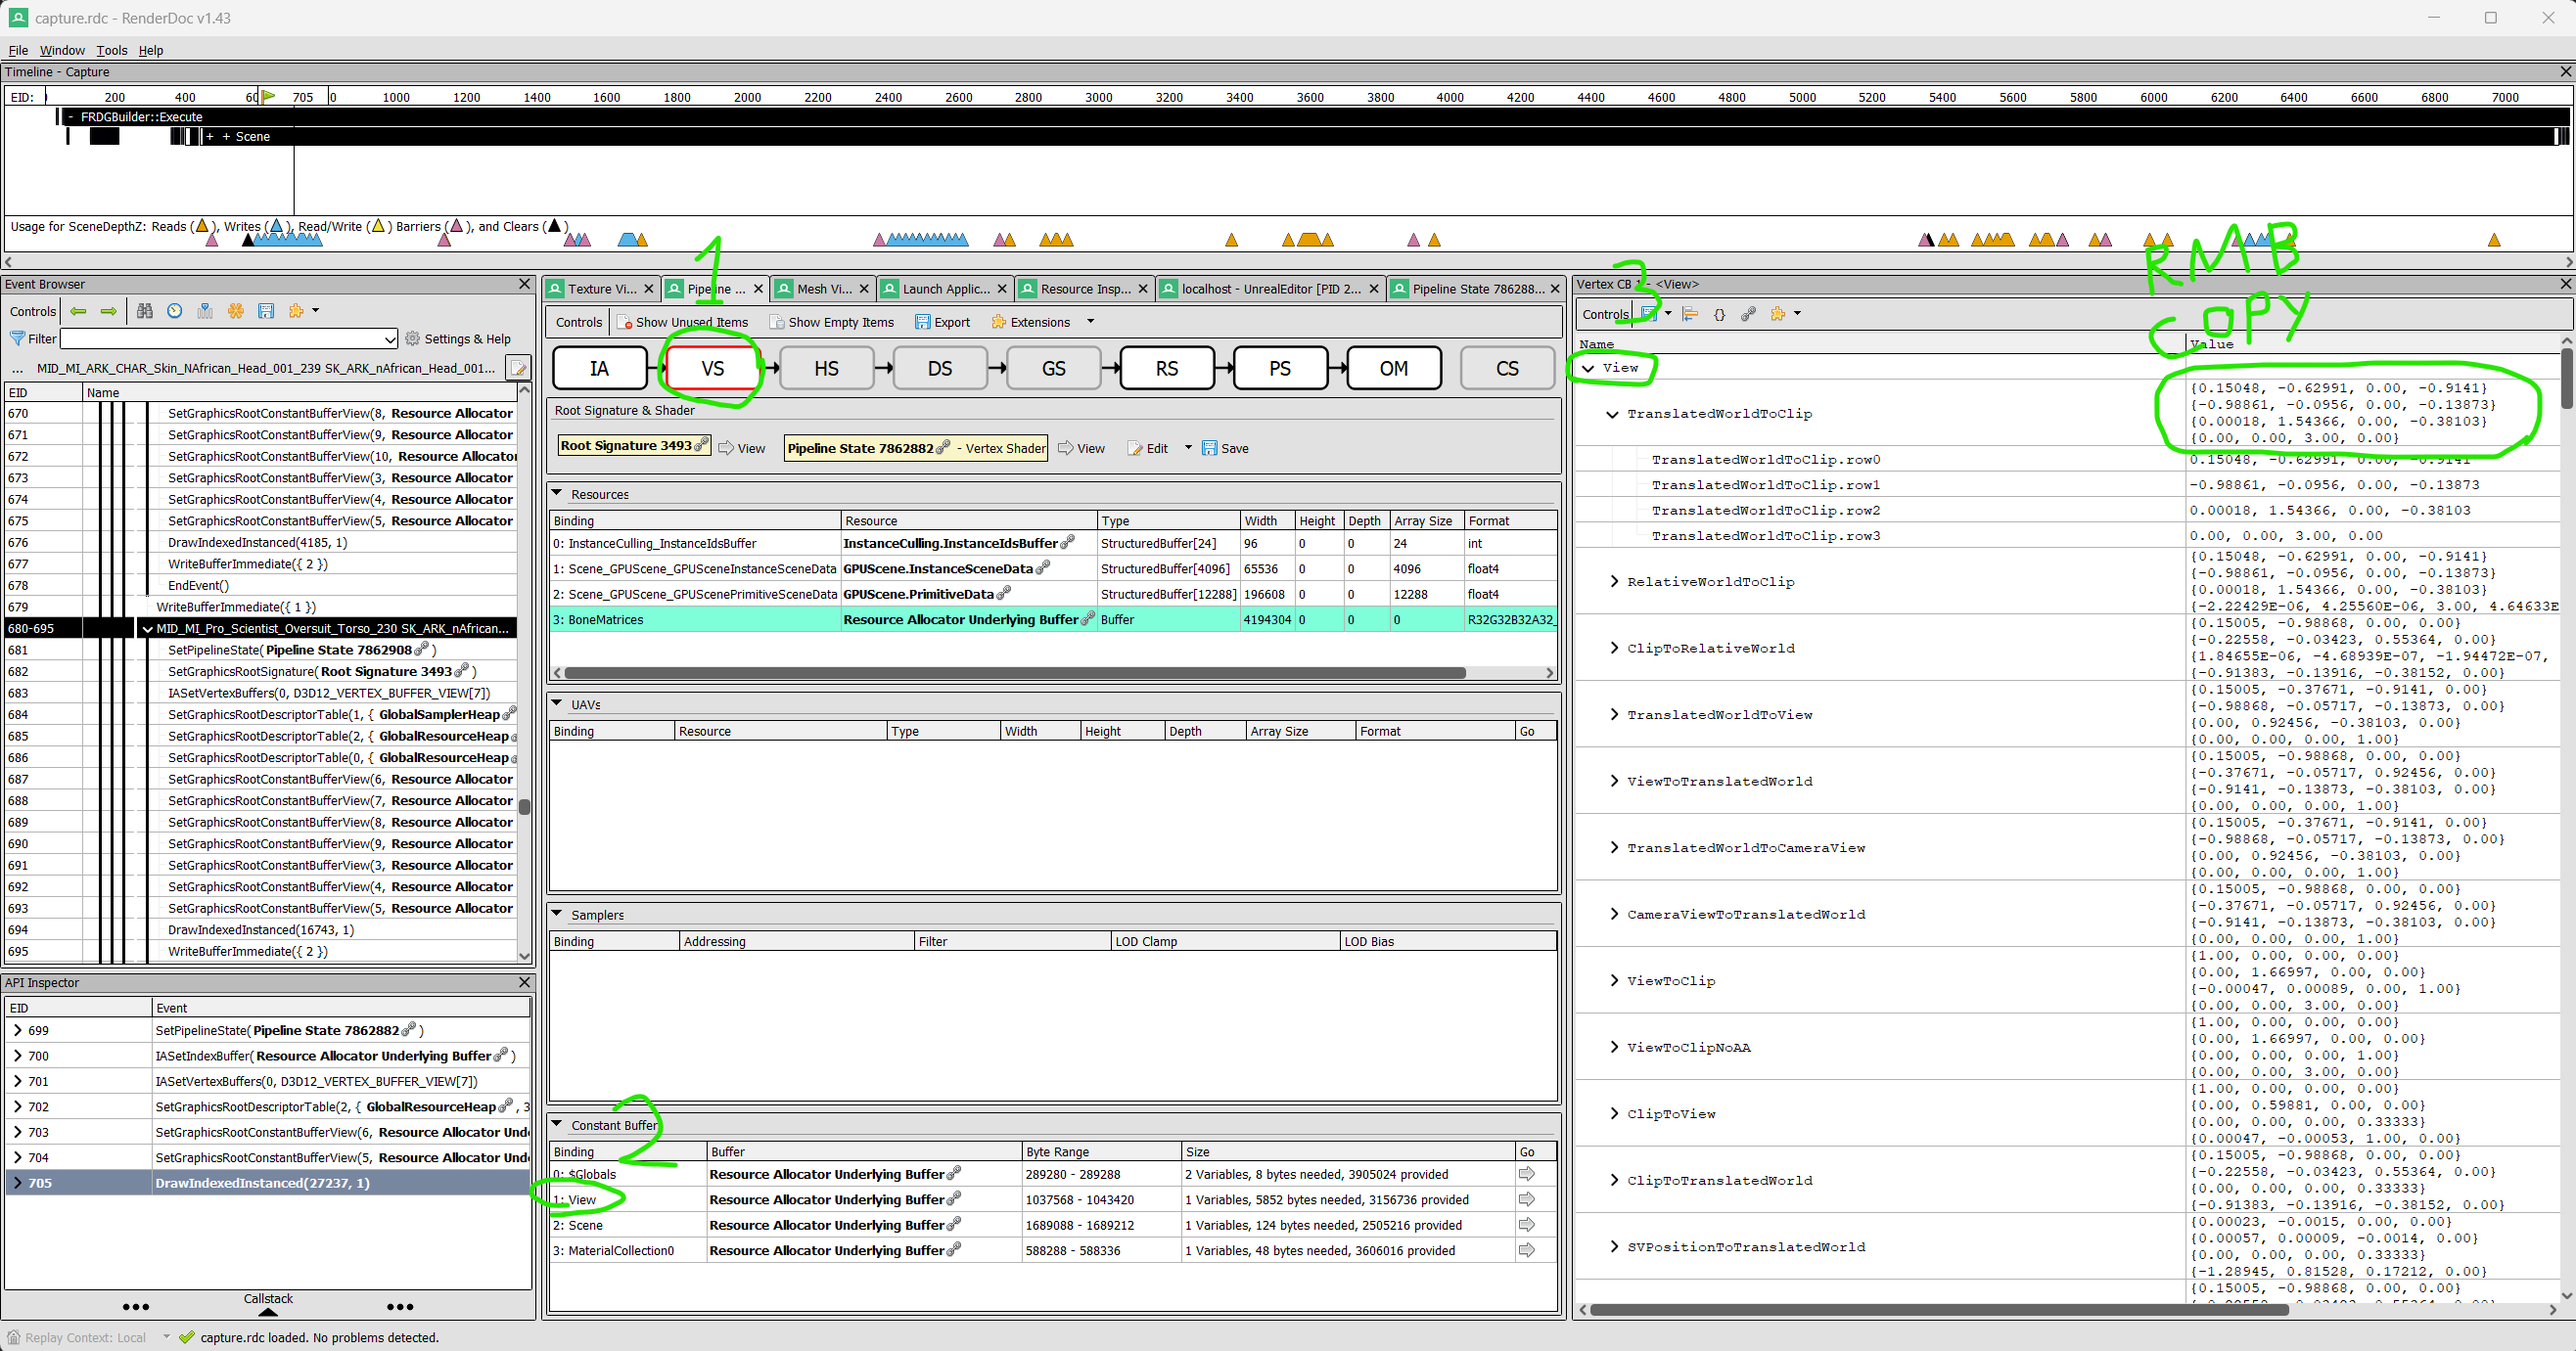
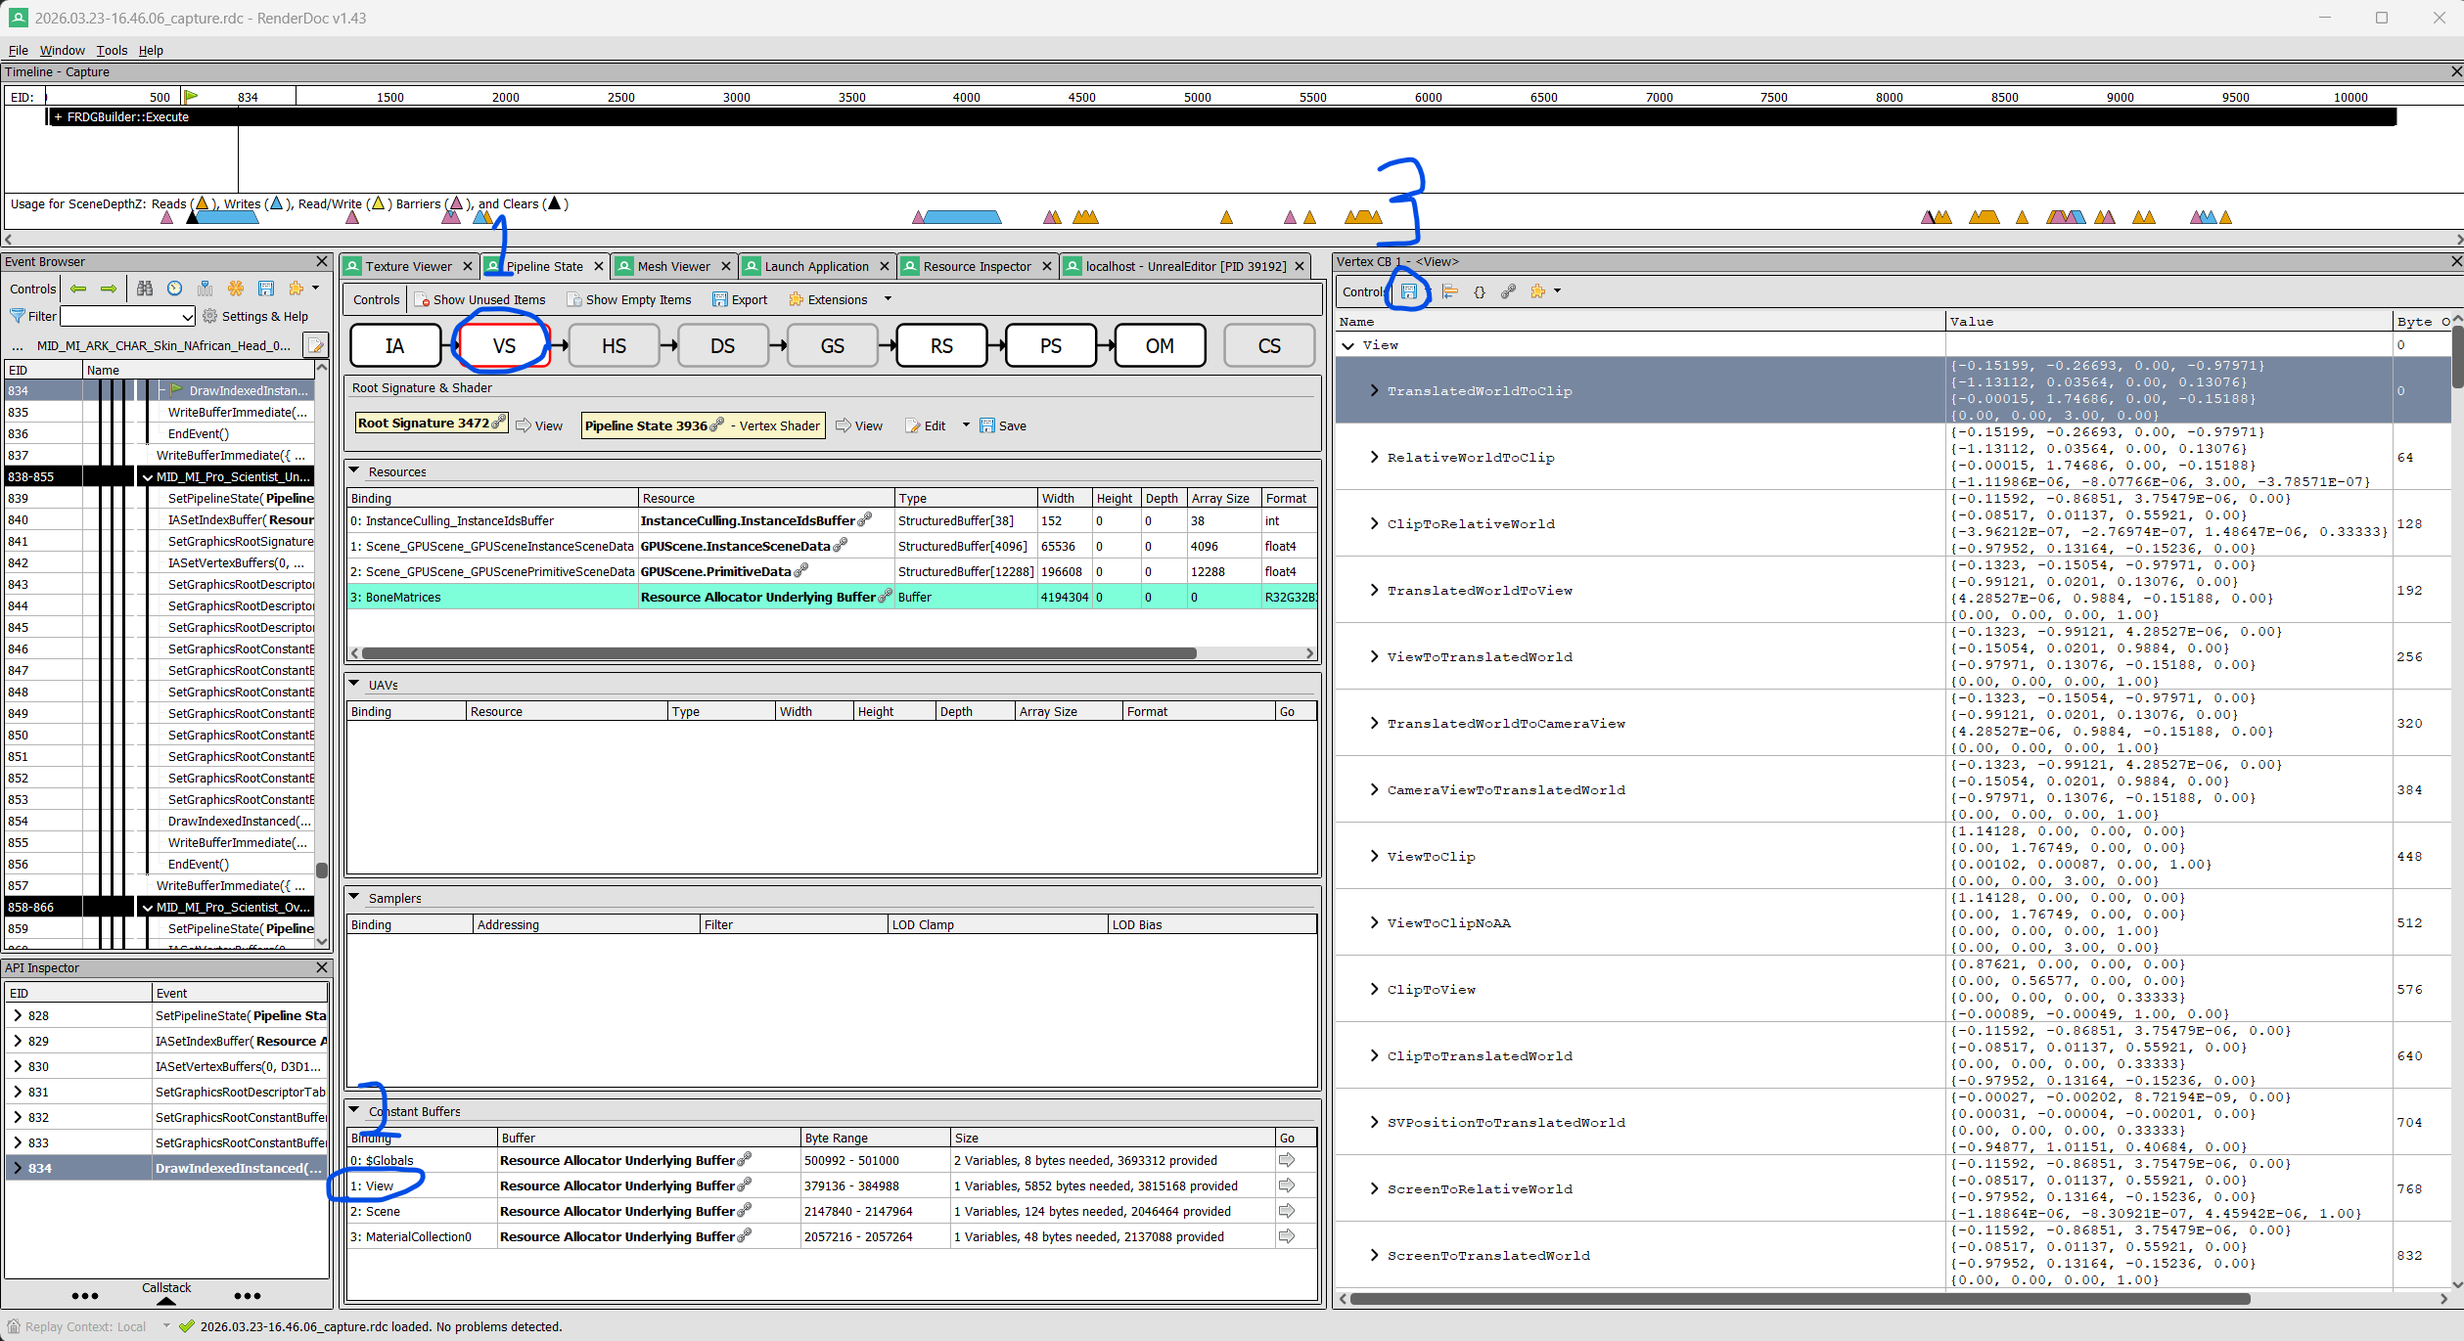
Improve README and update view export screenshot

diff --git a/DOCS/README.md b/DOCS/README.md
@@ -4,12 +4,20 @@ Generate face-based `.obj` files from Unreal Engine RenderDoc CSV exports.
 
 This project is aimed at **Unreal Engine / UE5** captures where you export mesh data from RenderDoc. In normal use, the script auto-detects `VS Input` object-space exports from `ATTRIBUTE0.x/y/z`, and auto-detects `VS Output` exports from `SV_Position.x/y/z/w`.
 
+Compared with the original upstream tool, this repo is set up around a folder-based workflow, exports one OBJ per mesh CSV, and reads the full RenderDoc `View` constant-buffer CSV instead of requiring manual copy-paste of matrix rows.
+
 By default the script now uses these folders:
 
 - `TO_EXPORT` for input CSV files
 - `EXPORT_OUT` for generated output files
 
 The public repo keeps those folders as empty placeholders. Your local CSV exports, OBJ outputs, RenderDoc captures, virtualenv files, and Python cache files are ignored.
+
+## Credit
+
+This project is based on the original [pizza666/RenderDoc2obj](https://github.com/pizza666/RenderDoc2obj) by Jan-Dirk Lehde.
+
+This repo extends that work with a UE5-focused workflow, per-CSV OBJ export, full `view.csv` constant-buffer parsing, and the additional documentation in this repository.
 
 ## Unreal workflow
 
@@ -55,6 +63,10 @@ Then:
 - save that file as `TO_EXPORT/view.csv`
 
 The script reads `TranslatedWorldToClip.row0` through `row3` and any available view-origin fields from that CSV.
+
+Reference screenshot:
+
+![RenderDoc full View buffer export workflow](view_matrix.png)
 
 The repository does not include sample exported mesh CSVs or RenderDoc captures, because those files are usually large and project-specific.
 
